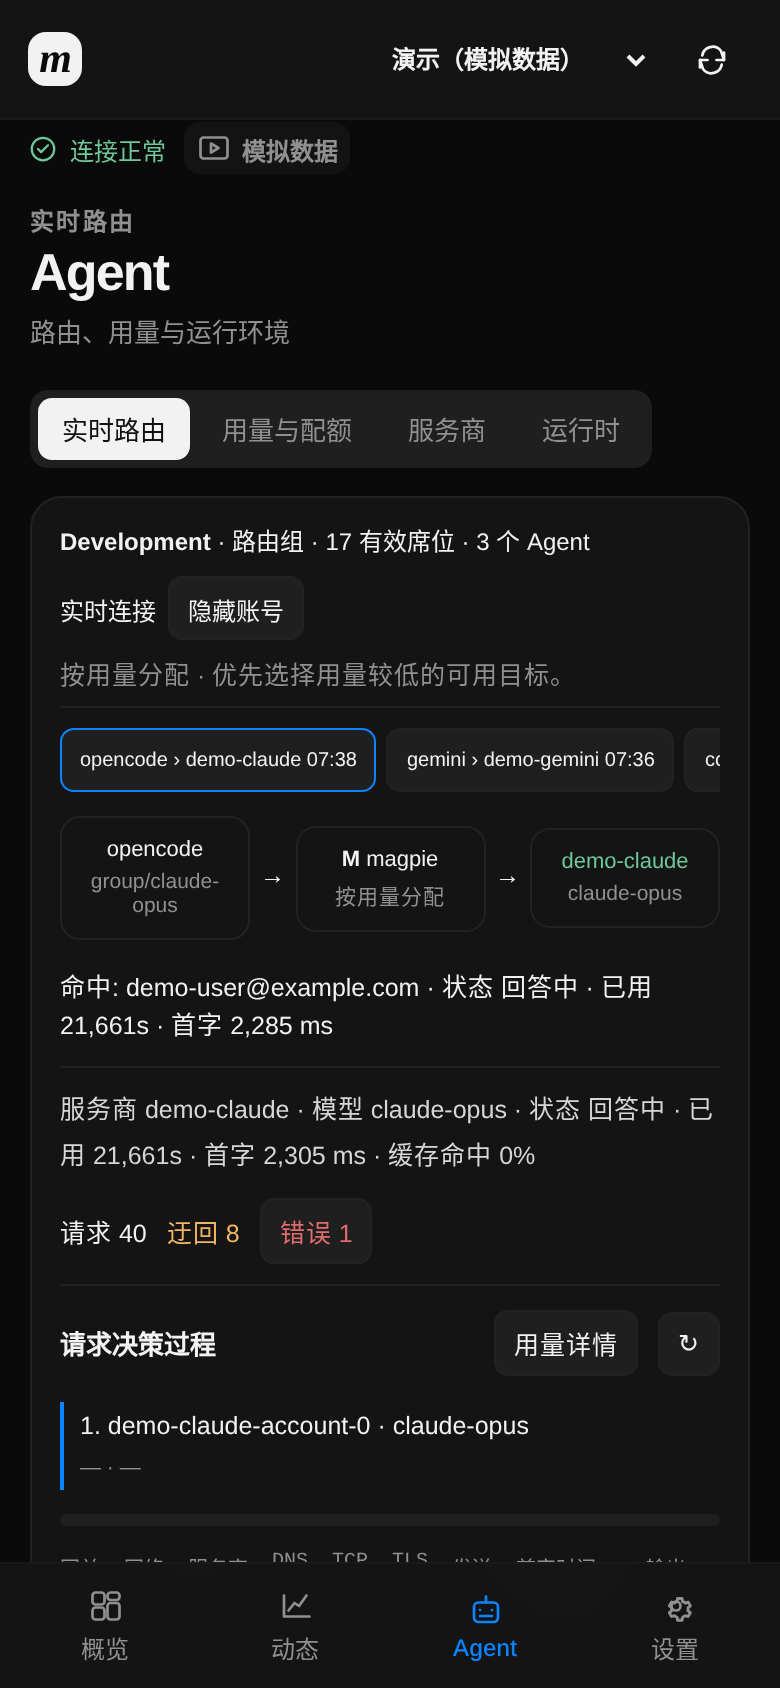
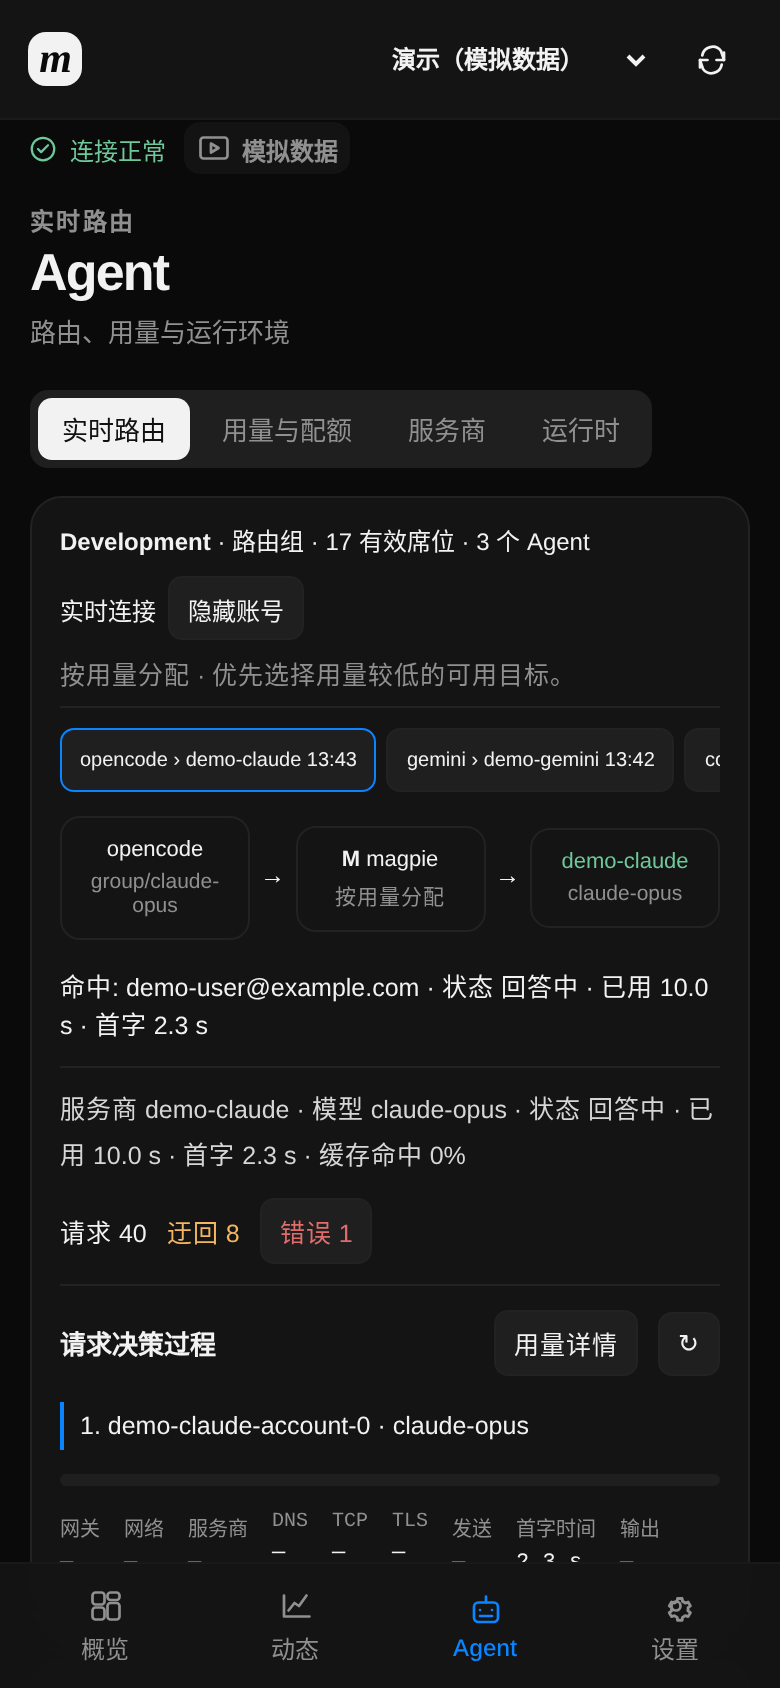
fix(routing): rebase mock trace to now, scaled duration formatting, shared TTFT source, no empty log sublines

diff --git a/web/src/core/transport.ts b/web/src/core/transport.ts
@@ -145,6 +145,7 @@ export class MockTransport implements Transport {
     } = {},
   ) {}
   private fixtures() {
+    const now = (this.options.now?.() ?? new Date()).getTime();
     const all = Object.fromEntries(
       Object.entries(fixtures).map(([key, value]) => [key, structuredClone(value)]),
     ) as Record<string, any>;
@@ -161,9 +162,29 @@ export class MockTransport implements Transport {
       }
       Object.values(value).forEach(visit);
     };
-    for (const key of ['ledger', 'usage', 'trace', 'route']) visit(all[`../mock/fixtures/${key}.json`]);
-    const now = (this.options.now?.() ?? new Date()).getTime(),
-      offset = now - 60_000 - Math.max(...recordTimes);
+    for (const key of ['ledger', 'usage', 'route']) visit(all[`../mock/fixtures/${key}.json`]);
+    const trace = all['../mock/fixtures/trace.json'] as any;
+    const newest = trace.routes.reduce((a: any, b: any) => Number(a.seq) > Number(b.seq) ? a : b, trace.routes[0]);
+    const latestStart = Date.parse(newest.time);
+    const traceOffset = now - 8_000 - latestStart;
+    const shiftTrace = (value: any): void => {
+      if (!value || typeof value !== 'object') return;
+      if (Array.isArray(value)) { value.forEach(shiftTrace); return; }
+      for (const [key, item] of Object.entries(value)) {
+        if (
+          typeof item === 'string' &&
+          /^(time|start|now|until|due|renews|usedRenews|day)$/.test(key) &&
+          Number.isFinite(Date.parse(item))
+        ) {
+          const shifted = Date.parse(item) + traceOffset;
+          value[key] = key === 'day' ? new Date(shifted).toISOString().slice(0, 10) : new Date(shifted).toISOString();
+        }
+        else shiftTrace(item);
+      }
+    };
+    shiftTrace(trace);
+    trace.now = new Date(now).toISOString();
+    const offset = now - 60_000 - Math.max(...recordTimes);
     const shift = (value: any): void => {
       if (!value || typeof value !== 'object') return;
       if (Array.isArray(value)) {
@@ -184,7 +205,7 @@ export class MockTransport implements Transport {
         } else shift(item);
       }
     };
-    Object.values(all).forEach(shift);
+    Object.entries(all).filter(([key]) => !key.endsWith('/trace.json')).forEach(([, value]) => shift(value));
     return all;
   }
   async request(req: Request) {
@@ -214,9 +235,7 @@ export class MockTransport implements Transport {
       return {
         status: 200,
         json: {
-          days: [
-            new Date((this.options.now?.() ?? new Date()).getTime() - 60_000).toISOString().slice(0, 10),
-          ],
+          days: [...new Set((shifted['../mock/fixtures/trace.json'] as any).routes.map((route: any) => route.time.slice(0, 10)))],
           routes: (
             shifted['../mock/fixtures/trace.json'] as {
               routes: unknown[];
@@ -251,7 +270,7 @@ export class MockTransport implements Transport {
             ...source,
             seq: this.seq,
             id: this.seq + 3500,
-            time: new Date((this.options.now?.() ?? new Date()).getTime() - 60_000).toISOString(),
+            time: new Date((this.options.now?.() ?? new Date()).getTime() - 8_000).toISOString(),
             session: `sess-demo-${String(this.seq).slice(-3)}`,
           },
         ];

diff --git a/ios/Packages/MagpieKit/Sources/MagpieKit/Networking/MockTransport.swift b/ios/Packages/MagpieKit/Sources/MagpieKit/Networking/MockTransport.swift
@@ -28,7 +28,42 @@ public actor MockTransport: HTTPTransport {
                          "/api/groups": "groups", "/api/providers": "providers",
                          "/api/usage": "usage", "/api/usage/quotas": "usage_quotas",
                          "/api/gateway/route": "web_route"]
-        return MockTransport(fixtures: try resources.mapValues { try MockFixtures.data(named: $0) })
+        var fixtures = try resources.mapValues { try MockFixtures.data(named: $0) }
+        if let trace = fixtures["/api/gateway/trace"] {
+            fixtures["/api/gateway/trace"] = try rebaseTrace(trace, now: Date())
+        }
+        return MockTransport(fixtures: fixtures)
+    }
+
+    private static func rebaseTrace(_ data: Data, now: Date) throws -> Data {
+        guard var root = try JSONSerialization.jsonObject(with: data) as? [String: Any],
+              let routes = root["routes"] as? [[String: Any]],
+              let latest = routes.max(by: { ($0["seq"] as? Int ?? 0) < ($1["seq"] as? Int ?? 0) }),
+              let routeTime = latest["time"] as? String else { return data }
+        let formatter = ISO8601DateFormatter()
+        formatter.formatOptions = [.withInternetDateTime, .withFractionalSeconds]
+        let plainFormatter = ISO8601DateFormatter()
+        func parseDate(_ text: String) -> Date? {
+            formatter.date(from: text) ?? plainFormatter.date(from: text)
+        }
+        guard let fixtureStart = parseDate(routeTime) else { return data }
+        let offset = now.addingTimeInterval(-8).timeIntervalSince(fixtureStart)
+        func shiftDates(_ value: Any, key: String? = nil) -> Any {
+            if let array = value as? [Any] { return array.map { shiftDates($0, key: key) } }
+            if let object = value as? [String: Any] {
+                return Dictionary(uniqueKeysWithValues: object.map { name, child in
+                    (name, shiftDates(child, key: name))
+                })
+            }
+            if let key, ["time", "start", "now", "until", "due", "renews", "usedRenews"].contains(key),
+               let text = value as? String, let date = parseDate(text) {
+                return formatter.string(from: date.addingTimeInterval(offset))
+            }
+            return value
+        }
+        root = shiftDates(root) as? [String: Any] ?? root
+        root["now"] = formatter.string(from: now)
+        return try JSONSerialization.data(withJSONObject: root)
     }
 
     /// Scripted responses are consumed in order, then fixture routing resumes.

diff --git a/web/src/views/agent/RoutingFoot.tsx b/web/src/views/agent/RoutingFoot.tsx
@@ -1,6 +1,7 @@
 import type { Route, TraceEnvelope } from '../../core/decode';
 import { footSummary } from '../../core/routing-model';
-import { elapsedSeconds, value, word, type Lang } from './shared';
+import { formatDuration } from '../../core/format';
+import { formatElapsed, value, word, type Lang } from './shared';
 const text = {
   zh: { requests: '请求', retries: '迂回', errors: '错误', first: '首字', cache: '缓存命中', provider: '服务商', model: '模型', duration: '耗时', tokens: 'Token', speed: '速度', status: '状态', elapsed: '已用', responding: '回答中' },
   en: { requests: 'Requests', retries: 'Rerouted', errors: 'Errors', first: 'First text', cache: 'Cache hit', provider: 'Provider', model: 'Model', duration: 'Duration', tokens: 'Tokens', speed: 'Speed', status: 'Status', elapsed: 'Elapsed', responding: 'Responding' },
@@ -22,8 +23,8 @@ export function RoutingFoot({
     <footer class="rt-foot">
       <p>
         {t.provider} {word(s.provider)} · {t.model} {word(s.model)} ·{' '}
-        {route.done === false ? `${t.status} ${t.responding} · ${t.elapsed} ${value(elapsedSeconds(route.time), 's')}` : `${t.duration} ${value(s.ms, ' ms')} · ${t.tokens} ${value(s.tokens, ' tk')}`}
-        {s.firstText !== null && <> · {t.first} {value(s.firstText, ' ms')}</>}
+        {route.done === false ? `${t.status} ${t.responding} · ${t.elapsed} ${formatElapsed(route.time)}` : `${t.duration} ${formatDuration(s.ms)} · ${t.tokens} ${value(s.tokens, ' tk')}`}
+        {(route.ttft ?? route.tries?.find((tr) => tr.served === route.served)?.ttft) !== undefined && <> · {t.first} {formatDuration(route.ttft ?? route.tries?.find((tr) => tr.served === route.served)?.ttft)}</>}
         {s.tokensPerSecond !== null && <> · {t.speed} {value(s.tokensPerSecond, ' tok/s')}</>}
         {s.cacheHitPercent !== null && <> · {t.cache} {value(s.cacheHitPercent, '%')}</>}
       </p>

diff --git a/web/src/views/agent/MobilePipeline.tsx b/web/src/views/agent/MobilePipeline.tsx
@@ -1,6 +1,7 @@
 import type { Route } from '../../core/decode';
 import { newestRoutes, outputSpeed, matchSeat } from '../../core/routing-model';
-import { clock, elapsedSeconds, strategy, value, word, type Lang } from './shared';
+import { formatDuration } from '../../core/format';
+import { clock, formatElapsed, strategy, value, word, type Lang } from './shared';
 const text = {
   zh: { recent: '最近请求', responding: '回答中', hit: '命中', input: '输入', output: '输出', duration: '耗时', elapsed: '已用', first: '首字', speed: '速度', status: '状态' },
   en: {
@@ -72,9 +73,9 @@ export function MobilePipeline({
       <p>
         {t.hit}: <span class="pii">{(selectedTry && matchSeat(route.order, selectedTry)?.who) ?? selectedTry?.id ?? '—'}</span>
         {route.done === false
-          ? ` · ${t.status} ${t.responding} · ${t.elapsed} ${value(elapsedSeconds(route.time), 's')}`
-          : ` · ${t.status} ${value(route.status)} · ${t.duration} ${value(route.ms, ' ms')}`}
-        {route.ttft !== undefined && <> · {t.first} {value(route.ttft, ' ms')}</>}
+          ? ` · ${t.status} ${t.responding} · ${t.elapsed} ${formatElapsed(route.time)}`
+          : ` · ${t.status} ${value(route.status)} · ${t.duration} ${formatDuration(route.ms)}`}
+        {(route.ttft ?? route.tries?.find((tr) => tr.served === route.served)?.ttft) !== undefined && <> · {t.first} {formatDuration(route.ttft ?? route.tries?.find((tr) => tr.served === route.served)?.ttft)}</>}
         {route.done !== false && outputSpeed(route) !== null && <> · {t.speed} {value(outputSpeed(route), ' tok/s')}</>}
         {route.done !== false && <>
           {Array.isArray(route.usage) && route.usage.length && (route.usage as { in?: number }[]).every((u) => u.in !== undefined) && <> · {t.input} {(route.usage as { in: number }[]).reduce((n, u) => n + u.in, 0).toLocaleString()}</>}

diff --git a/web/src/views/agent/RoutingLog.tsx b/web/src/views/agent/RoutingLog.tsx
@@ -1,5 +1,6 @@
 import type { Route } from '../../core/decode';
 import { failedTry, latencyBreakdown } from '../../core/routing-model';
+import { formatDuration } from '../../core/format';
 import { value, word, type Lang } from './shared';
 const text = {
   zh: {
@@ -76,17 +77,20 @@ export function RoutingLog({
               <span>
                 {i + 1}. {word(tr.id)} · {word(tr.model)}
               </span>
-              <small>
-                {tr.fail ?? tr.error ?? (tr.status === undefined ? '—' : String(tr.status))} ·{' '}
-                {value(tr.ms, ' ms')}
-              </small>
+              {(tr.fail || tr.error || tr.status !== undefined || tr.ms !== undefined) && (
+                <small>
+                  {tr.fail ?? tr.error ?? (tr.status === undefined ? '' : `HTTP ${tr.status}`)}
+                  {(tr.fail || tr.error || tr.status !== undefined) && tr.ms !== undefined ? ' · ' : ''}
+                  {tr.ms !== undefined ? formatDuration(tr.ms) : ''}
+                </small>
+              )}
             </li>
           ))
         ) : (
           <li>{t.empty}</li>
         )}
       </ol>
-      <div class="rt-latency" aria-label={`${t.total} ${value(b.total, ' ms')}`}>
+      <div class="rt-latency" aria-label={`${t.total} ${formatDuration(b.total)}`}>
         {segments.map(
           (v, i) =>
             v !== null && (
@@ -113,7 +117,7 @@ export function RoutingLog({
         }).map(([k, v]) => (
           <div>
             <dt>{k}</dt>
-            <dd>{value(v, ' ms')}</dd>
+            <dd>{formatDuration(v)}</dd>
           </div>
         ))}
       </dl>

diff --git a/ios/App/Sources/Views/Agent/RoutePresentation.swift b/ios/App/Sources/Views/Agent/RoutePresentation.swift
@@ -11,10 +11,21 @@ enum RoutePresentation {
         default: value ?? "—"
         }
     }
-    static func milliseconds(_ value: Int?) -> String { value.map { "\($0.formatted()) ms" } ?? "—" }
+    static func milliseconds(_ value: Int?) -> String {
+        value.map { duration(milliseconds: Double($0)) } ?? "—"
+    }
+    static func duration(milliseconds: Double) -> String {
+        guard milliseconds.isFinite, milliseconds >= 0 else { return "—" }
+        if milliseconds < 1_000 { return "\(Int(milliseconds.rounded()).formatted()) ms" }
+        let seconds = milliseconds / 1_000
+        if seconds < 60 { return seconds.formatted(.number.precision(.fractionLength(1))) + " 秒" }
+        let minutes = Int(seconds) / 60
+        if minutes < 60 { return "\(minutes) 分 \(Int(seconds) % 60) 秒" }
+        return "\(minutes / 60) 小时 \(minutes % 60) 分"
+    }
     static func elapsed(_ start: Date?, now: Date = .now) -> String {
         guard let start else { return "—" }
-        return "\(max(0, Int(now.timeIntervalSince(start))).formatted()) 秒"
+        return duration(milliseconds: max(0, now.timeIntervalSince(start) * 1_000))
     }
     static func failed(_ route: Route) -> Bool {
         route.error?.isEmpty == false || (route.status?.value ?? 0) >= 400 || (route.tries?.elements ?? []).contains { ($0.status?.value ?? 0) >= 400 }

diff --git a/web/tests/unit/transport.test.ts b/web/tests/unit/transport.test.ts
@@ -2,9 +2,22 @@ import { afterEach, it, expect, vi } from 'vitest';
 import { ProxyTransport, DirectTransport, MockTransport } from '../../src/core/transport';
 import { GatewayClient } from '../../src/core/gateway-client';
 import { WebClient } from '../../src/core/web-client';
+import { formatDuration } from '../../src/core/format';
 afterEach(() => {
   vi.useRealTimers();
   vi.restoreAllMocks();
+});
+it('rebases the newest mock route to the current time and formats scaled durations', async () => {
+  const now = new Date('2026-10-17T12:00:00.000Z');
+  const result = await new MockTransport({ now: () => now }).request({
+    api: 'web',
+    path: '/api/gateway/trace',
+  });
+  const trace = result.json as { now: string; routes: { seq: number; time: string }[] };
+  const newest = trace.routes.reduce((a, b) => (a.seq > b.seq ? a : b));
+  expect(Date.parse(trace.now) - Date.parse(newest.time)).toBeLessThan(60_000);
+  expect(formatDuration(21_661_000)).toBe('6h 1m');
+  expect(formatDuration(2_285)).toBe('2.3 s');
 });
 const response = (_url: RequestInfo | URL, _init?: RequestInit) =>
   Promise.resolve(new Response(JSON.stringify({ name: 'magpie', seq: 1, routes: [] })));

diff --git a/web/src/views/agent/shared.ts b/web/src/views/agent/shared.ts
@@ -1,4 +1,6 @@
 import type { Route } from '../../core/decode';
+import { formatDuration } from '../../core/format';
+export { formatDuration } from '../../core/format';
 export type Lang = 'zh' | 'en';
 export const language = (): Lang => (new URLSearchParams(location.search).get('lang') === 'en' ? 'en' : 'zh');
 export const value = (v: unknown, suffix = '') =>
@@ -13,6 +15,10 @@ export const clock = (s?: string) =>
 export const elapsedSeconds = (s?: string) => {
   const start = s ? Date.parse(s) : NaN;
   return Number.isFinite(start) ? Math.max(0, Math.floor((Date.now() - start) / 1000)) : null;
+};
+export const formatElapsed = (s?: string, now = Date.now()) => {
+  const start = s ? Date.parse(s) : NaN;
+  return Number.isFinite(start) ? formatDuration(Math.max(0, now - start)) : '—';
 };
 const text = {
   zh: { smart: '智能分配', order: '依序尝试', rotate: '轮流分配', usage: '按用量分配' },

diff --git a/ios/App/Sources/Views/Agent/RoutingSummaryView.swift b/ios/App/Sources/Views/Agent/RoutingSummaryView.swift
@@ -24,7 +24,9 @@ struct RoutingSummaryView: View {
             if route.done != false {
                 Text("耗时：\(RoutePresentation.milliseconds(route.ms?.value)) · Token：\(route.tokens?.value.formatted() ?? "—")")
             }
-            if let ttft = route.ttft?.value { Text("首字：\(RoutePresentation.milliseconds(ttft))") }
+            if let ttft = route.ttft?.value ?? route.tries?.elements.first(where: { $0.served == route.served })?.ttft?.value {
+                Text("首字：\(RoutePresentation.milliseconds(ttft))")
+            }
             if route.done != false, let output = route.out?.value { Text("输出 Token：\(output.formatted())") }
             if route.done != false, speed != "—" { Text("速度：\(speed)") }
         }.font(.caption.monospaced()).accessibilityElement(children: .combine)

diff --git a/ios/App/Sources/Views/Agent/LatencyBarView.swift b/ios/App/Sources/Views/Agent/LatencyBarView.swift
@@ -4,9 +4,10 @@ import MagpieKit
 struct LatencyBarView: View {
     let route: Route
     private var segments: [(String, Int?, Color)] {
-        let first = route.firstText?.value ?? route.ttft?.value
+        let ttft = route.ttft?.value ?? route.tries?.elements.first(where: { $0.served == route.served })?.ttft?.value
+        let first = route.firstText?.value ?? ttft
         let stream = (route.ms?.value).flatMap { total in first.flatMap { total >= $0 && $0 >= 0 ? total - $0 : nil } }
-        return [("首 token", route.ttft?.value, DS.Palette.blue),
+        return [("首 token", ttft, DS.Palette.blue),
                 ("首文字", route.firstText?.value, DS.Palette.orange),
                 ("流式输出", stream, DS.Palette.green)]
     }

diff --git a/web/src/views/agent/RequestList.tsx b/web/src/views/agent/RequestList.tsx
@@ -1,4 +1,5 @@
 import type { Route } from '../../core/decode';
+import { formatDuration } from '../../core/format';
 import { agentHue, requestsForAccount } from '../../core/routing-model';
 import { clock, value, word, type Lang } from './shared';
 const text = {
@@ -62,7 +63,7 @@ export function RequestList({
                 </small>
               </span>
               <small>
-                {value(r.ms, ' ms')} · {value(r.tokens, ' tk')} · {r.priced ? value(r.cost, ' USD') : '—'}
+                {formatDuration(r.ms)} · {value(r.tokens, ' tk')} · {r.priced ? value(r.cost, ' USD') : '—'}
               </small>
             </button>
           </li>

diff --git a/ios/Packages/MagpieKit/Tests/MagpieKitTests/WebClientTests.swift b/ios/Packages/MagpieKit/Tests/MagpieKitTests/WebClientTests.swift
@@ -96,4 +96,13 @@ final class WebClientTests: XCTestCase {
         XCTAssertEqual(requests[4].url?.query, "day=2026-10-17&id=10038")
     }
 
+    func testMockTraceNewestRouteIsRebasedNearNow() async throws {
+        let client = WebClient(baseURL: base, runtimeKey: nil, transport: try MockTransport.webFixtures(), port: 3430)
+        let trace = try await client.trace(after: 0, wait: false)
+        let route = try XCTUnwrap(RoutingModel.currentRoute(in: trace.routes?.elements ?? []))
+        let age = Date().timeIntervalSince(try XCTUnwrap(route.time?.date))
+        XCTAssertGreaterThanOrEqual(age, 0)
+        XCTAssertLessThan(age, 60)
+    }
+
 }
